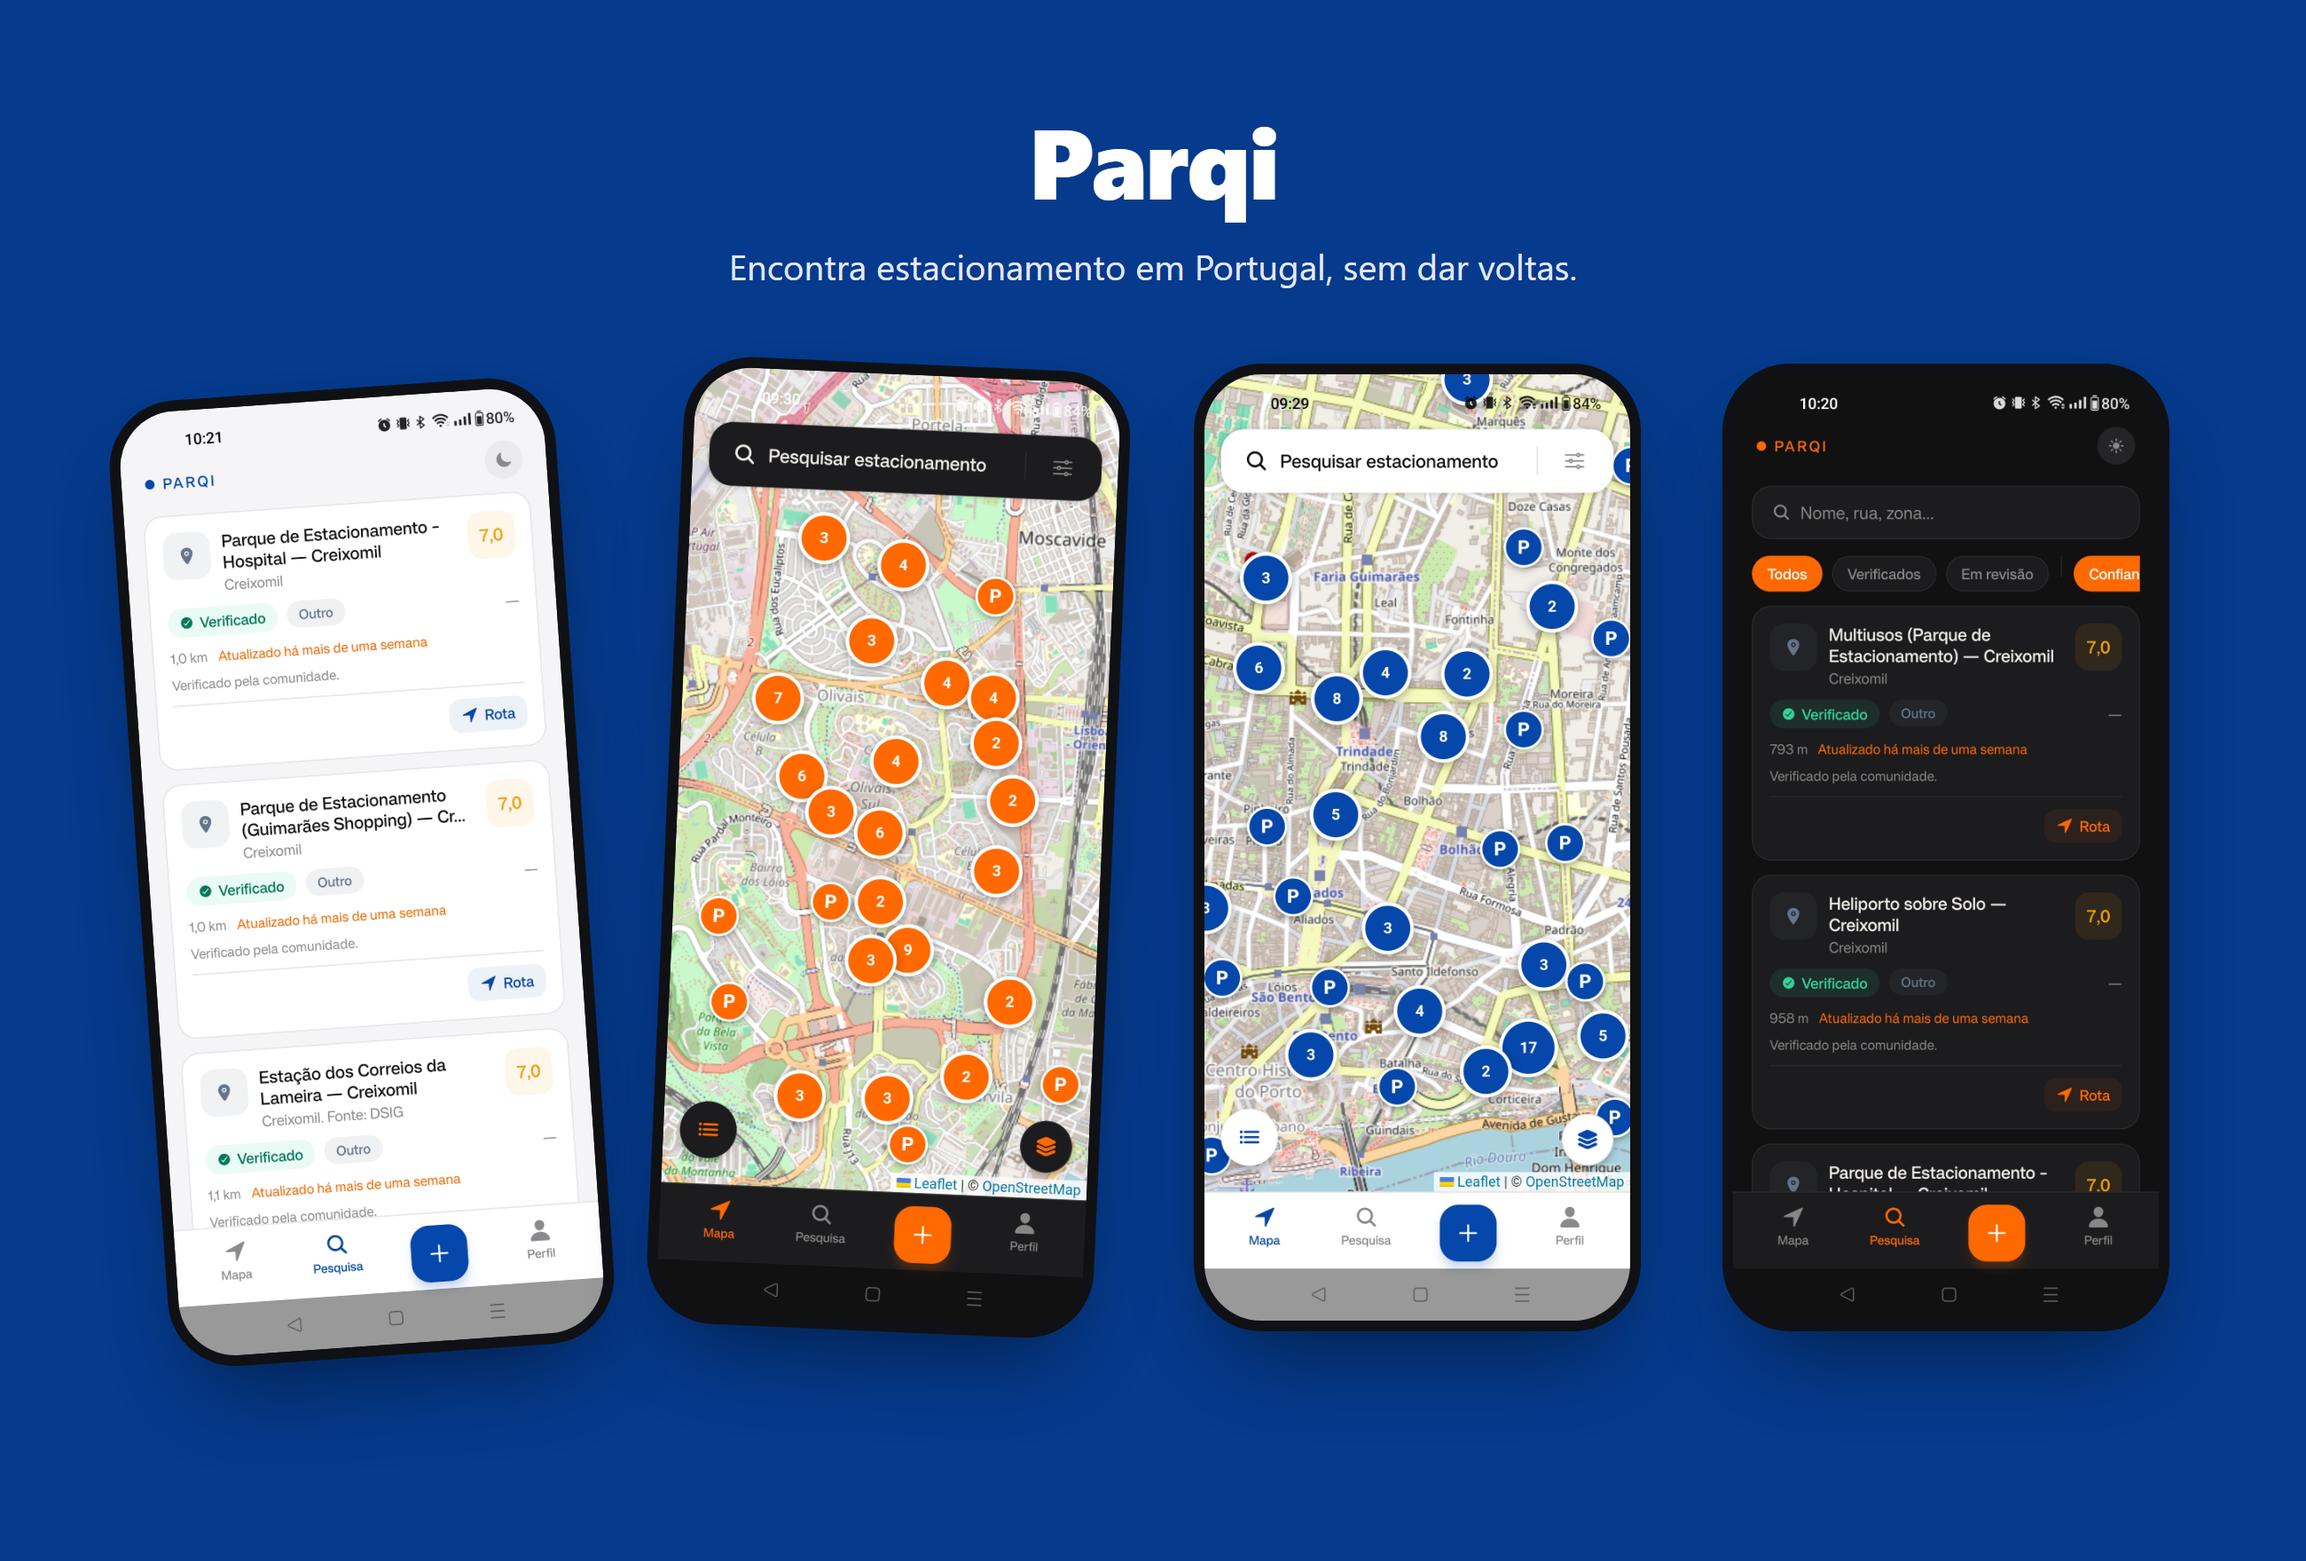
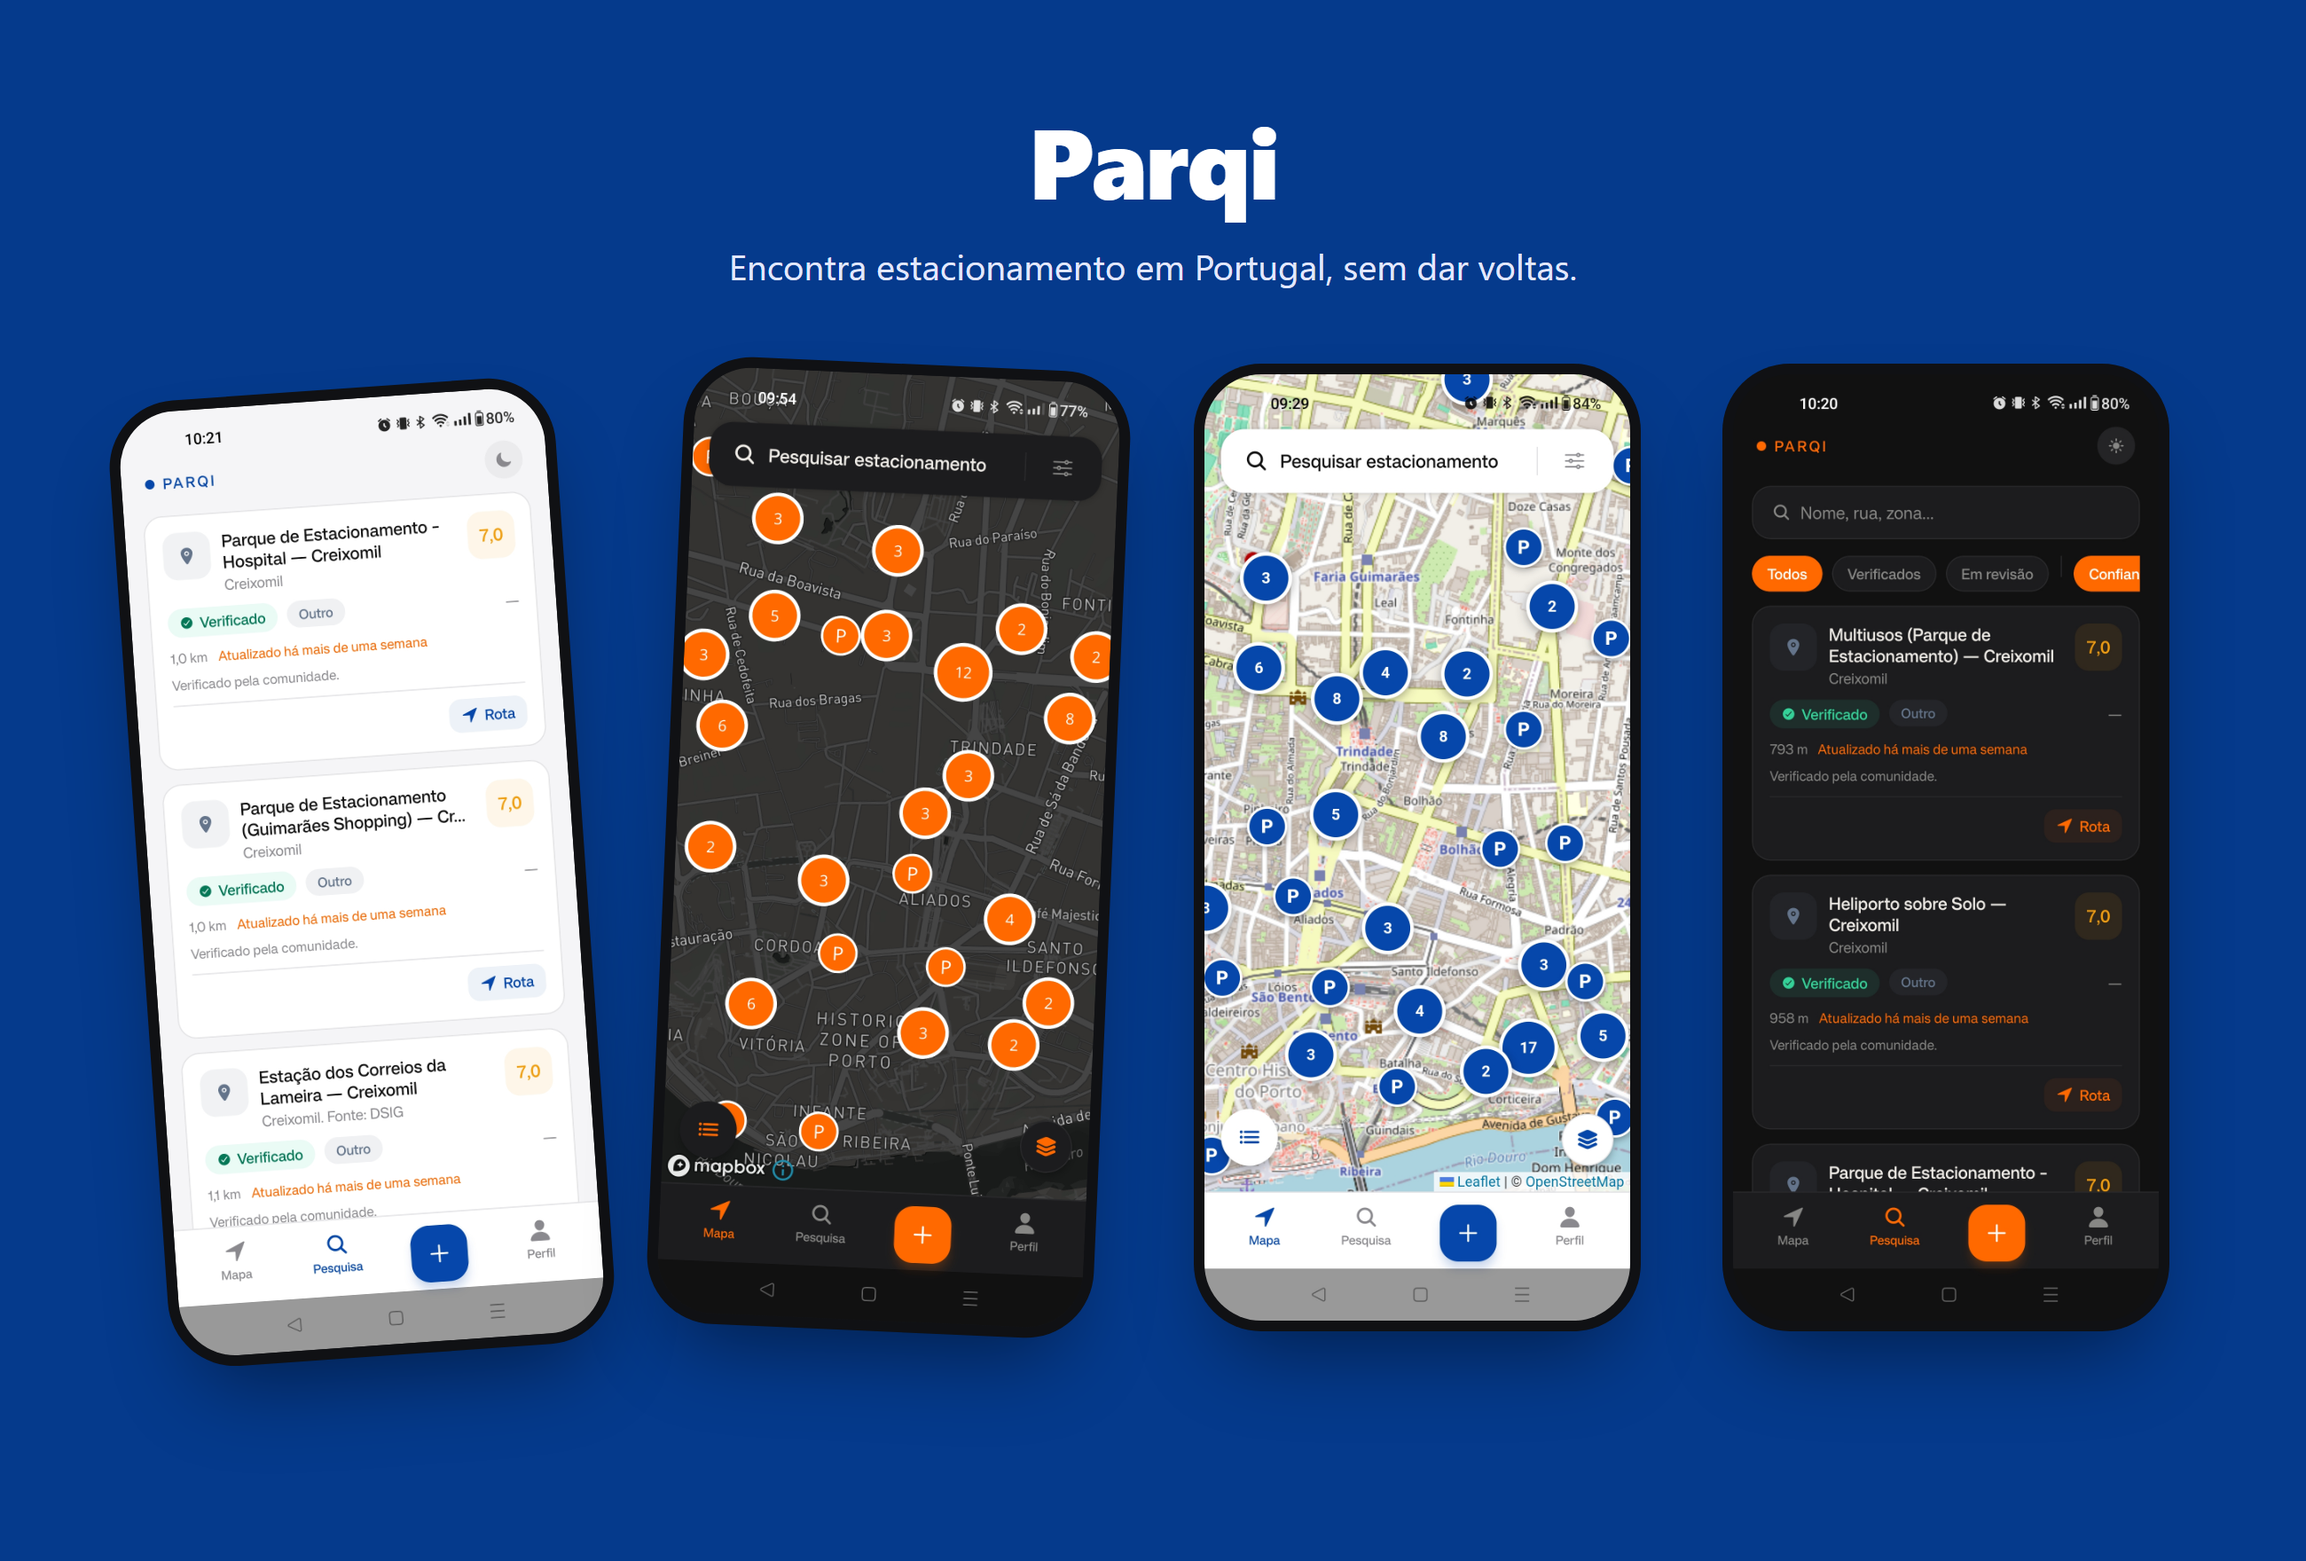
map dark fix

Changed region(s): [[0.2804, 0.2188, 0.4985, 0.7812]]

diff --git a/mobile/src/components/OsmMap.tsx b/mobile/src/components/OsmMap.tsx
@@ -14,6 +14,21 @@ import { MAP_CONFIG, isValidCoordinate } from '../lib/mapConfig';
 
 export type MapLayer = 'standard' | 'satellite' | 'dark' | 'light' | 'topo';
 
+/**
+ * API key CARTO (basemaps raster). Desde 2026 os tiles dark/light de
+ * basemaps.cartocdn.com exigem `?key=` — sem ela os tiles vêm com o
+ * watermark "API key required". Grátis até 5M pedidos/mês: carto.com/basemaps/apikey
+ */
+const CARTO_API_KEY = process.env.EXPO_PUBLIC_CARTO_API_KEY ?? '';
+
+// Caminho canónico rastertiles/ (o alias sem prefixo também responde, mas é o
+// caminho legado; CARTO documenta o prefixado e está a reformar os rasters).
+function cartoUrl(path: string): string {
+    return CARTO_API_KEY
+        ? `https://basemaps.cartocdn.com/rastertiles/${path}?key=${CARTO_API_KEY}`
+        : `https://basemaps.cartocdn.com/rastertiles/${path}`;
+}
+
 export interface OsmMarker {
     id: string;
     latitude: number;
@@ -59,28 +74,35 @@ const TILE_PRESETS = {
     standard: {
         url: 'https://tile.openstreetmap.org/{z}/{x}/{y}.png',
         maxZoom: 19,
+        cssFilter: '',
         attribution: '&copy; <a href="https://www.openstreetmap.org/copyright">OpenStreetMap</a>',
     },
     satellite: {
         url: 'https://server.arcgisonline.com/ArcGIS/rest/services/World_Imagery/MapServer/tile/{z}/{y}/{x}',
         maxZoom: 19,
+        cssFilter: '',
         attribution:
             'Tiles &copy; Esri &mdash; Source: Esri, Maxar, Earthstar Geographics, and the GIS User Community',
     },
     dark: {
-        url: 'https://{s}.basemaps.cartocdn.com/dark_all/{z}/{x}/{y}{r}.png',
+        url: cartoUrl('dark_all/{z}/{x}/{y}{r}.png'),
         maxZoom: 20,
+        // dark_all da CARTO tem estradas pouco contrastadas; filtro CSS só nos
+        // tiles (pins/clusters ficam intactos). Ajustar aqui para gosto.
+        cssFilter: 'brightness(1.15) contrast(1.4) saturate(1.1)',
         attribution: '&copy; <a href="https://www.openstreetmap.org/copyright">OpenStreetMap</a> &copy; <a href="https://carto.com/attributions">CARTO</a>',
     },
     light: {
-        url: 'https://{s}.basemaps.cartocdn.com/light_all/{z}/{x}/{y}{r}.png',
+        url: cartoUrl('light_all/{z}/{x}/{y}{r}.png'),
         maxZoom: 20,
+        cssFilter: '',
         attribution: '&copy; <a href="https://www.openstreetmap.org/copyright">OpenStreetMap</a> &copy; <a href="https://carto.com/attributions">CARTO</a>',
     },
     topo: {
         url: 'https://{s}.tile.opentopomap.org/{z}/{x}/{y}.png',
         maxZoom: 19,
         maxNativeZoom: 17,
+        cssFilter: '',
         attribution:
             'Map data &copy; <a href="https://www.openstreetmap.org/copyright">OpenStreetMap</a> contributors, SRTM | &copy; <a href="https://opentopomap.org">OpenTopoMap</a> (CC-BY-SA)',
     },
@@ -128,18 +150,22 @@ const interactive = ${interactive};    const map = L.map('map', {
 }).setView([${center.latitude}, ${center.longitude}], ${zoom});
 
 const LAYERS = {
-    standard: { url: '${TILE_PRESETS.standard.url}', maxZoom: ${TILE_PRESETS.standard.maxZoom}, attr: '${TILE_PRESETS.standard.attribution}' },
-    satellite: { url: '${TILE_PRESETS.satellite.url}', maxZoom: ${TILE_PRESETS.satellite.maxZoom}, attr: '${TILE_PRESETS.satellite.attribution}' },
-    dark: { url: '${TILE_PRESETS.dark.url}', maxZoom: ${TILE_PRESETS.dark.maxZoom}, attr: '${TILE_PRESETS.dark.attribution}' },
-    light: { url: '${TILE_PRESETS.light.url}', maxZoom: ${TILE_PRESETS.light.maxZoom}, attr: '${TILE_PRESETS.light.attribution}' },
-    topo: { url: '${TILE_PRESETS.topo.url}', maxZoom: ${TILE_PRESETS.topo.maxZoom}, maxNativeZoom: ${TILE_PRESETS.topo.maxNativeZoom}, attr: '${TILE_PRESETS.topo.attribution}' },
+    standard: { url: '${TILE_PRESETS.standard.url}', maxZoom: ${TILE_PRESETS.standard.maxZoom}, filter: '${TILE_PRESETS.standard.cssFilter}', attr: '${TILE_PRESETS.standard.attribution}' },
+    satellite: { url: '${TILE_PRESETS.satellite.url}', maxZoom: ${TILE_PRESETS.satellite.maxZoom}, filter: '${TILE_PRESETS.satellite.cssFilter}', attr: '${TILE_PRESETS.satellite.attribution}' },
+    dark: { url: '${TILE_PRESETS.dark.url}', maxZoom: ${TILE_PRESETS.dark.maxZoom}, filter: '${TILE_PRESETS.dark.cssFilter}', attr: '${TILE_PRESETS.dark.attribution}' },
+    light: { url: '${TILE_PRESETS.light.url}', maxZoom: ${TILE_PRESETS.light.maxZoom}, filter: '${TILE_PRESETS.light.cssFilter}', attr: '${TILE_PRESETS.light.attribution}' },
+    topo: { url: '${TILE_PRESETS.topo.url}', maxZoom: ${TILE_PRESETS.topo.maxZoom}, maxNativeZoom: ${TILE_PRESETS.topo.maxNativeZoom}, filter: '${TILE_PRESETS.topo.cssFilter}', attr: '${TILE_PRESETS.topo.attribution}' },
 };
 
 let tile = null;
 function switchLayer(name) {
     const cfg = LAYERS[name] || LAYERS.standard;
     if (tile) { map.removeLayer(tile); }
-    tile = L.tileLayer(cfg.url, { maxZoom: cfg.maxZoom, maxNativeZoom: cfg.maxNativeZoom || cfg.maxZoom, attribution: cfg.attr, subdomains: 'abc' }).addTo(map);
+    tile = L.tileLayer(cfg.url, { maxZoom: cfg.maxZoom, maxNativeZoom: cfg.maxNativeZoom || cfg.maxZoom, attribution: cfg.attr, subdomains: 'abcd' }).addTo(map);
+    // Filtro CSS apenas no container dos tiles — pins/clusters/polígonos ficam intactos
+    if (cfg.filter && tile.getContainer()) {
+        tile.getContainer().style.filter = cfg.filter;
+    }
 }
 switchLayer('${layer}');
 

diff --git a/mobile/app/(tabs)/mapa.tsx b/mobile/app/(tabs)/mapa.tsx
@@ -12,7 +12,16 @@ import {
     Text,
     View,
 } from 'react-native';
-import { AppMap, type AppMapHandle, type MapLayer } from '../../src/components/AppMap';
+import {
+    AppMap,
+    getDefaultProvider,
+    getStoredProvider,
+    isMapboxAvailable,
+    setStoredProvider,
+    type AppMapHandle,
+    type MapLayer,
+    type MapProvider,
+} from '../../src/components/AppMap';
 import { MapLayerPicker } from '../../src/components/MapLayerPicker';
 import { ScoreBadge } from '../../src/components/ScoreBadge';
 import { useAuth } from '../../src/context/AuthContext';
@@ -21,7 +30,7 @@ import { parkingApi } from '../../src/lib/api';
 import { regionToBbox, type Region } from '../../src/lib/geo';
 import { distanceLabel, freshnessLabel, readParkingCache, trustMessage, writeParkingCache } from '../../src/lib/parking';
 import { expandBbox, MAP_CONFIG } from '../../src/lib/mapConfig';
-import { TYPE_DESIGN } from '../../src/theme/design';
+import { TYPE_DESIGN, MONO } from '../../src/theme/design';
 import type { ThemeColors } from '../../src/theme/colors';
 import type { ParkingSpot, ParkingType } from '../../src/types/parking';
 
@@ -61,6 +70,14 @@ export default function MapScreen() {
 
     const [center, setCenter] = useState<LatLng>(DEFAULT_REGION);
     const [mapLayer, setMapLayer] = useState<MapLayer>(resolvedScheme === 'dark' ? 'dark' : 'standard');
+    // Provider do mapa: default do .env/dispositivo; admin pode alternar OSM <-> Mapbox.
+    const mapboxAvailable = useMemo(() => isMapboxAvailable(), []);
+    const [mapProvider, setMapProvider] = useState<MapProvider>(getDefaultProvider());
+    useEffect(() => {
+        getStoredProvider().then((stored) => {
+            if (stored) setMapProvider(stored);
+        }).catch(() => { });
+    }, []);
     const [userLocation, setUserLocation] = useState<LatLng | null>(null);
     const [followUser, setFollowUser] = useState(true);
     const [spots, setSpots] = useState<ParkingSpot[]>([]);
@@ -155,6 +172,17 @@ export default function MapScreen() {
         [filteredSpots, colors]
     );
 
+    // Alternância de provider (só admin, só com SDK nativo Mapbox disponível)
+    const canToggleProvider = user?.role === 'ADMIN' && mapboxAvailable;
+    const toggleMapProvider = useCallback(() => {
+        setMapProvider((current) => {
+            const next: MapProvider = current === 'mapbox' ? 'osm' : 'mapbox';
+            setStoredProvider(next);
+            return next;
+        });
+        Haptics.selectionAsync().catch(() => { });
+    }, []);
+
     const handleBoundsChange = useCallback((bbox: string) => {
         if (bbox === lastRequestedBbox.current) return;
         lastRequestedBbox.current = bbox;
@@ -177,6 +205,7 @@ export default function MapScreen() {
                 markers={markers}
                 userLocation={userLocation}
                 layer={mapLayer}
+                provider={mapProvider}
                 brandColor={colors.primary}
                 accentColor={colors.accent}
                 onMarkerPress={(id) => {
@@ -359,6 +388,16 @@ export default function MapScreen() {
             </Pressable>
 
             <View style={[styles.mapControls, selectedSpot && styles.mapControlsRaised]}>
+                {canToggleProvider && (
+                    <Pressable
+                        style={({ pressed }) => [styles.providerButton, pressed && styles.pressed]}
+                        onPress={toggleMapProvider}
+                        accessibilityRole="button"
+                        accessibilityLabel={mapProvider === 'mapbox' ? 'Mudar mapa para OSM' : 'Mudar mapa para Mapbox'}
+                    >
+                        <Text style={styles.providerButtonText}>{mapProvider === 'mapbox' ? 'MB' : 'OSM'}</Text>
+                    </Pressable>
+                )}
                 <MapLayerPicker onChange={setMapLayer} style={styles.layerPicker} />
             </View>
 
@@ -517,6 +556,27 @@ const createStyles = (colors: ThemeColors, topInset: number) => StyleSheet.creat
     },
     layerPicker: {
         position: 'relative',
+    },
+    providerButton: {
+        width: 48,
+        height: 48,
+        borderRadius: 24,
+        alignItems: 'center',
+        justifyContent: 'center',
+        backgroundColor: colors.card,
+        borderWidth: 1,
+        borderColor: colors.border,
+        shadowColor: '#000',
+        shadowOpacity: 0.18,
+        shadowRadius: 9,
+        shadowOffset: { width: 0, height: 3 },
+        elevation: 5,
+    },
+    providerButtonText: {
+        fontSize: 11,
+        fontWeight: '800',
+        fontFamily: MONO,
+        color: colors.text,
     },
     locationButton: {
         width: 48,

diff --git a/mobile/src/components/AppMap.tsx b/mobile/src/components/AppMap.tsx
@@ -36,6 +36,34 @@ const DEFAULT_PROVIDER =
 const PROVIDER_STORAGE_KEY = 'parqi.map_provider';
 export type MapProvider = MapProviderOption;
 
+/** Provider escolhido no arranque (Expo Go força 'osm' — sem SDK nativo). */
+export function getDefaultProvider(): MapProvider {
+    return DEFAULT_PROVIDER as MapProvider;
+}
+
+/** Mapbox só existe em development builds com o SDK nativo. */
+export function isMapboxAvailable(): boolean {
+    return !isExpoGo && Platform.OS === 'android' && getMapbox() !== null;
+}
+
+export async function getStoredProvider(): Promise<MapProvider | null> {
+    try {
+        const value = await AsyncStorage.getItem(PROVIDER_STORAGE_KEY);
+        if (value === 'mapbox' || value === 'osm' || value === 'google') return value;
+    } catch {
+        // storage indisponível: usa o default
+    }
+    return null;
+}
+
+export async function setStoredProvider(provider: MapProvider): Promise<void> {
+    try {
+        await AsyncStorage.setItem(PROVIDER_STORAGE_KEY, provider);
+    } catch {
+        // storage indisponível: mantém só em memória
+    }
+}
+
 type NativeMapComponent = typeof OsmMap;
 
 function getMapbox(): NativeMapComponent | null {

diff --git a/SETUP.md b/SETUP.md
@@ -135,3 +135,14 @@ npm start
 
 ### Frontend (.env.development)
 - `NEXT_PUBLIC_API_URL` - Backend API URL
+
+### Mobile (.env)
+Vars `EXPO_PUBLIC_*` são embutidas no bundle em build-time.
+- `EXPO_PUBLIC_API_URL` - Backend API URL
+- `EXPO_PUBLIC_MAP_PROVIDER` - `osm` | `google` | `mapbox` (default `mapbox`)
+- `EXPO_PUBLIC_MAPBOX_ACCESS_TOKEN` - Token Mapbox (provider `mapbox`)
+- `EXPO_PUBLIC_GOOGLE_MAPS_API_KEY` - Google Maps SDK (provider `google`)
+- `EXPO_PUBLIC_CARTO_API_KEY` - API key CARTO para tiles dark/light do mapa OSM
+  (grátis até 5M pedidos/mês: carto.com/basemaps/apikey; vai na URL como `?key=`;
+  sem key os tiles mostram o watermark "API key required")
+- `EXPO_PUBLIC_PROJECT_ID` - Expo project ID (notificações)
